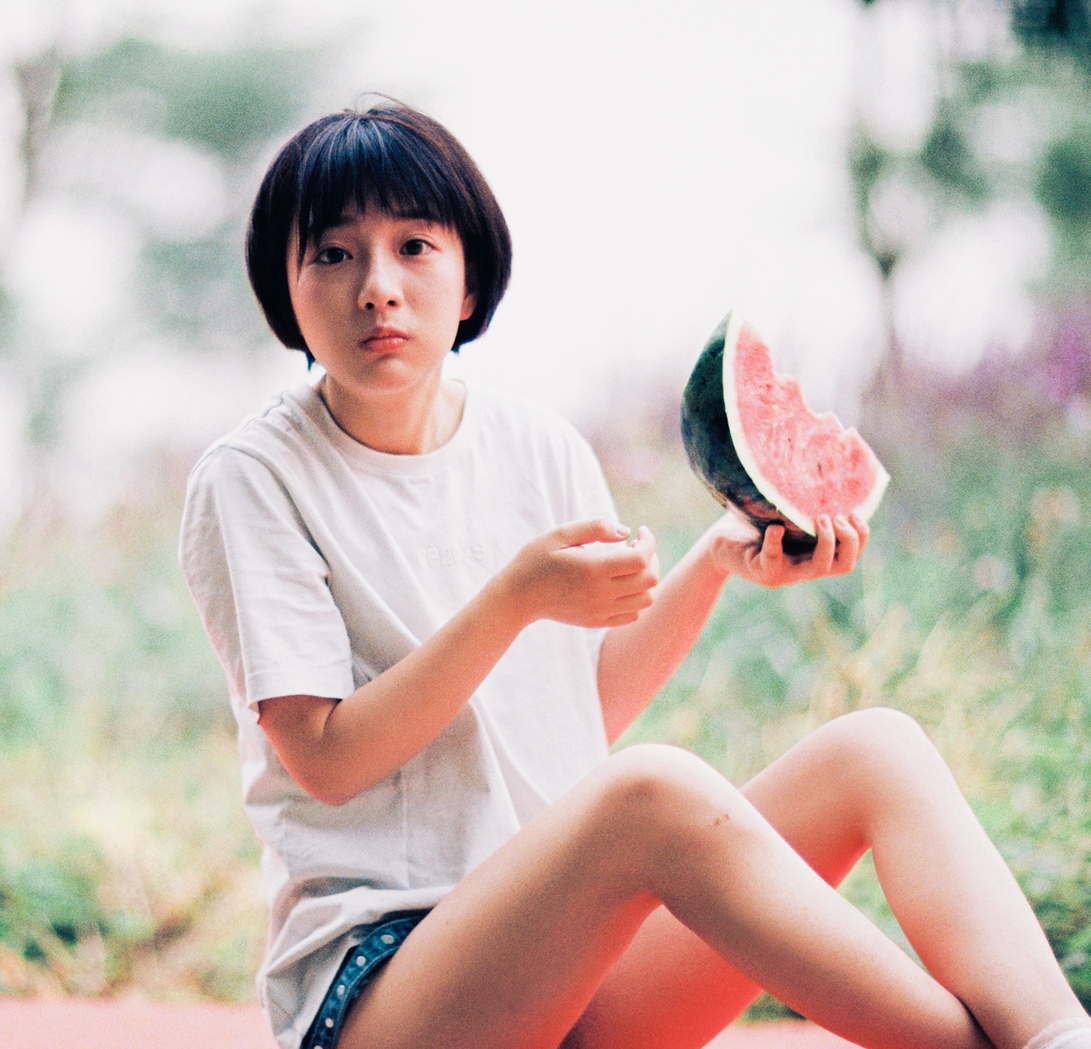
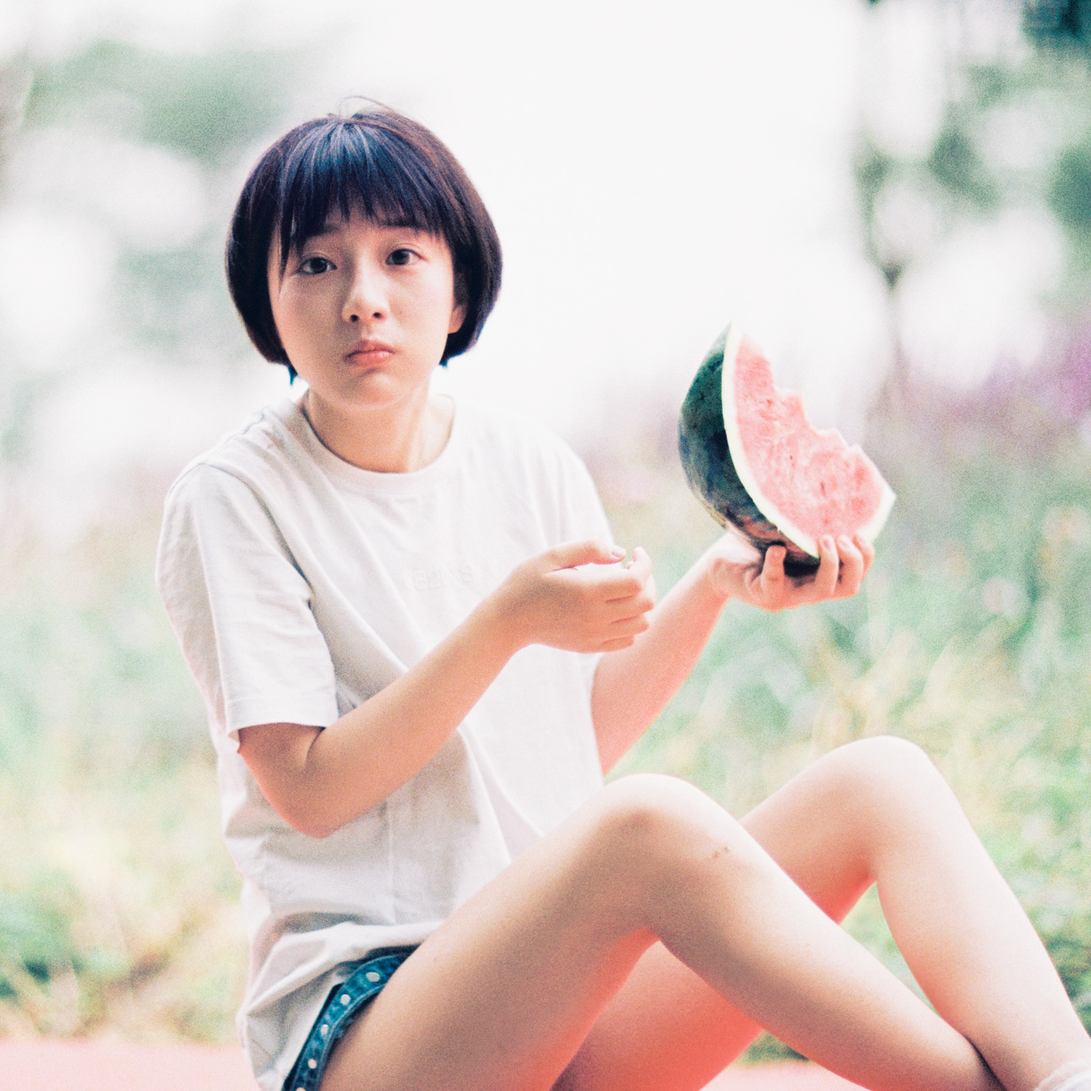
add qi's

diff --git a/pic/portfolio/index.html b/pic/portfolio/index.html
@@ -117,23 +117,9 @@
                 </section>
                 <section class="col-xs-6 col-sm-6 col-md-6 col-lg-6 grid">
                 	<ul class="grid-lod effect-2" id="grid">
-                    	<li>
-                        	<figure class="effect-oscar">
-                            <img src="images/home-images/private8.jpg" alt="" class="img-responsive"/>
-                             <figcaption>
-                            </figcaption>
-                        </figure>
-                        </li>
                         <li>
                         	<figure class="effect-oscar">
                             <img src="images/home-images/qi3.jpg" alt="" class="img-responsive"/>
-                             <figcaption>
-                            </figcaption>
-                        </figure>
-                        </li>
-                        <li>
-                        	<figure class="effect-oscar">
-                            <img src="images/home-images/private3.jpg" alt="" class="img-responsive"/>
                              <figcaption>
                             </figcaption>
                         </figure>
